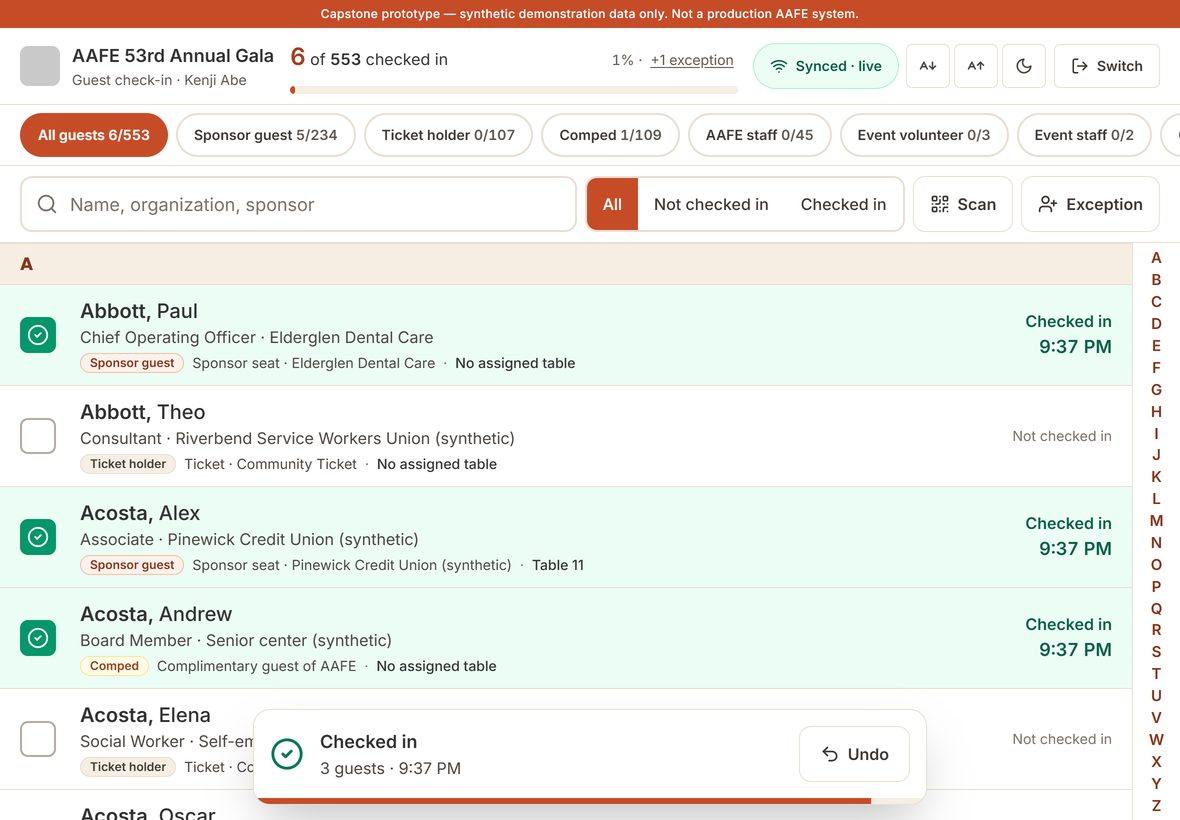
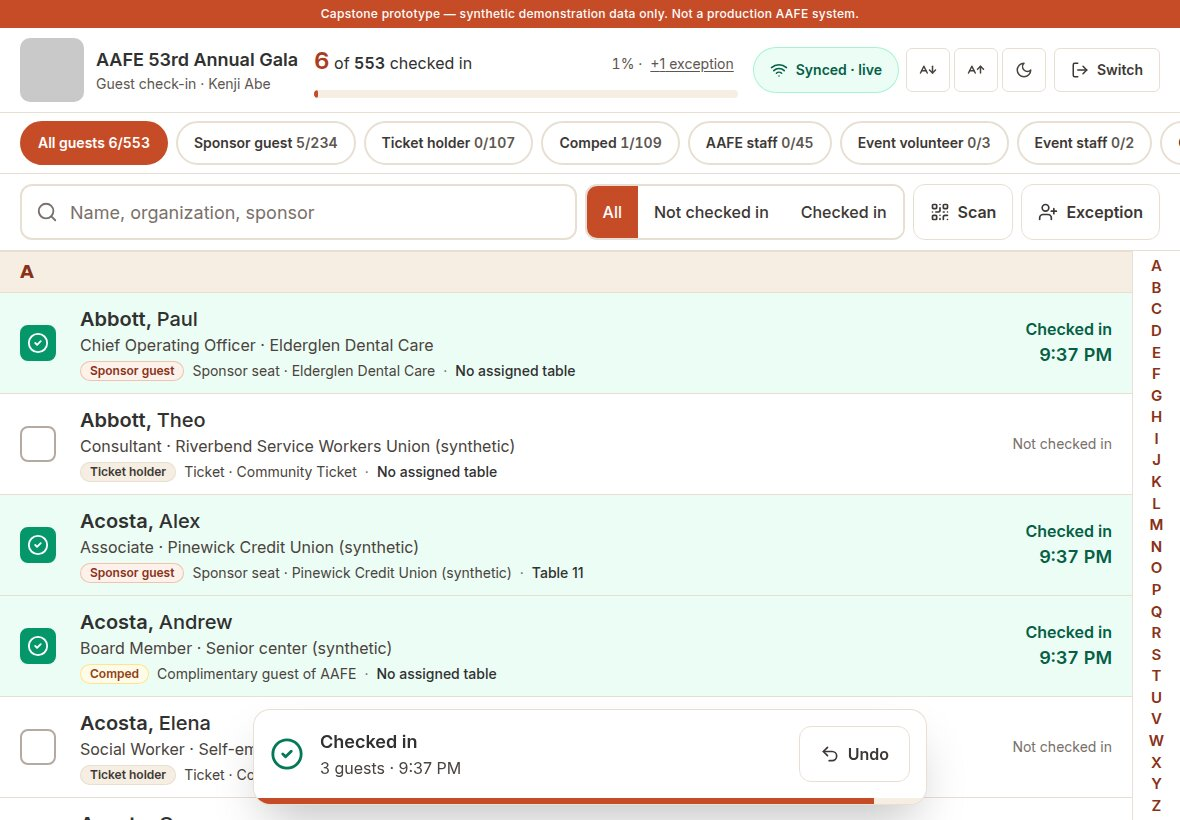
Hub: bring every page up to Oct 9 (PRs #81, #82, the #75-#77 review, PRDs)
- Live build: the six iPad screenshots retaken with the larger mark and the
  portrait filter row from #81 and #82; AAFE's mark stays a grey placeholder
- Tasks: an Oct 8 (night) section; #76, #77, the deadline decision, the audit
  and the code map task updated with what's built and what's left
- Build plan, Overview, Architecture, Decisions, Documents, Risks, Glossary:
  status as of Oct 9; links to the Code map
- What's new: one line per change

Claude-Session: https://claude.ai/code/session_01AG8RBuHLPDQwYThMwQLUZv

diff --git a/hub/index.html b/hub/index.html
@@ -665,7 +665,7 @@ body.presenting .pager,body.presenting .foot,body.presenting .check-note,body.pr
     </div>
     <footer class="foot">
       <span>Prepared by team ERIMX BOKHUS, Pursuit AI Native Fellowship. Not an official AAFE website.</span>
-      <span>Updated October 8, 2026 · Invented example data only</span>
+      <span>Updated October 9, 2026 · Invented example data only</span>
     </footer>
   </main>
 </div>

diff --git a/hub/docs/build-plan.md b/hub/docs/build-plan.md
@@ -54,7 +54,7 @@ Read it left to right: setup and data the first week, then the import, the staff
 ## Where each component stands
 <!-- new 2026-10-05 22:58 Aisling -->
 
-As of October 8. Natalie's backend and guest portal are in `main` (PRs #25 and #26), so the backend pair builds on her work instead of starting over. PRs #42–#50 (Oct 6–7) added the email follow-ups, offline check-in, the sponsor pipeline, sponsor-facing arrivals (switched off), the translation review sheet, and a full-size test gala. Natalie's iPad check-in app joined `main` on Oct 8 (PR #56). The staff app saves every change through the server, which checks the role (PR #72, Oct 8). <!-- modified 2026-10-08 16:40 Aisling -->
+As of October 9. Natalie's backend and guest portal are in `main` (PRs #25 and #26), so the backend pair builds on her work instead of starting over. PRs #42–#50 (Oct 6–7) added the email follow-ups, offline check-in, the sponsor pipeline, sponsor-facing arrivals (switched off), the translation review sheet, and a full-size test gala. Natalie's iPad check-in app joined `main` on Oct 8 (PR #56). The staff app saves every change through the server, which checks the role (PR #72, Oct 8). The backend audit's fixes (PR #78) and two iPad layout PRs (#81, #82) followed that night. The [Code map](#codemap) shows how all of it connects. <!-- modified 2026-10-09 00:05 Aisling -->
 
 | # | Component | Status | Done | Next <!-- new 2026-10-05 22:58 Aisling --> |
 | --- | --- | --- | --- | --- |
@@ -63,11 +63,11 @@ As of October 8. Natalie's backend and guest portal are in `main` (PRs #25 and #
 | C2 | Sign-in and roles | Built; live test next | Emailed one-time sign-in link, role from the staff list (Cornell, PR #27); 20 sign-in tests. Roles enforced on the server (issue #9; Cornell, PR #72, Oct 8): every staff action is one server function that checks the role and logs the change, managers read through the access rules, and a check-in volunteer's browser holds only the door list (no emails, phones, dietary needs, payments, notes or QR codes); checked live on Aisling's test project Oct 8 | Live sign-in test with Cornell on Saturday, Oct 10 <!-- modified 2026-10-08 16:40 Aisling --> |
 | C3 | Commitments and seats | Connected | Pledges, payments, comps, seats, and seat statuses in Natalie's backend; the staff app records them through the server (PR #72); payment, pledge and comp forms save once on a double-click | Live run with the sign-in test <!-- modified 2026-10-08 16:40 Aisling --> |
 | C4 | Import and matching | Ahead of schedule | Import engine (116 tests) and database side, including a real-format CSV end to end; tier mapping; gala page filter; review queue; daylight-saving days, a 2,000-row file, and Internal Name only (PR #46); the Give Lively sync's per-donation logic tested (PR #46); a 553-guest gala end to end in about 19 seconds (PR #50) | Upload screen and tier-mapping picker in the staff app (frontend pair); decide on names written in Chinese or Korean script <!-- modified 2026-10-07 23:27 Aisling --> |
-| C5 | Sponsor guest form | Source in `main` | Natalie's portal: slots per package, hashed private links, English, 中文, 한국어, Español (Korean from Antonin, PR #51); Antonin's prototype reviewed as a design reference (Oct 6) | Port as small PRs, screenshots first, Natalie approves: tier-based layout, "N guests still need names · add by May 11", gala-night arrivals; "From your purchase: please confirm" labels; connect to the backend. Antonin's PRs #75–#77 wait for screenshots and Natalie's approval, #75 also for the deadline decision <!-- modified 2026-10-08 16:40 Aisling --> |
+| C5 | Sponsor guest form | Source in `main` | Natalie's portal: slots per package, hashed private links, English, 中文, 한국어, Español (Korean from Antonin, PR #51); Antonin's prototype reviewed as a design reference (Oct 6) | Port as small PRs, screenshots first, Natalie approves: tier-based layout, "N guests still need names · add by May 11", gala-night arrivals; "From your purchase: please confirm" labels; connect to the backend. Antonin's PRs #75–#77 were reviewed and tested Oct 8; they wait on Natalie, then notes go to Antonin; #75 also waits on the deadline decision <!-- modified 2026-10-09 00:05 Aisling --> |
 | C6 | Staff dashboard | Connected; pipeline built in the backend | Natalie's staff app, connected (PR #72): every page reads through the server's access rules, paged past Supabase's 1,000-row limit, with demo data when no keys are set; changing the gala date or deadline says what will move before saving; sponsor pipeline in the backend: AAFE's stages, the ask against the commitment, the last two galas' giving, and a board against the goal (PR #48) | Gaps by owner; pipeline board and prospect form <!-- modified 2026-10-08 16:40 Aisling --> |
 | C7 | Follow-up emails | Built in the backend | Draft queue, staff approval, sending through Resend; payment confirmations, guest-list reminders, and an approval queue with each email's sponsor, seats, and payment (PR #44); every email change logged with old and new values (PR #42) | Approval screen in the staff app (frontend pair) <!-- modified 2026-10-07 13:45 Aisling --> |
 | C8 | Exports | Database side done, live | Badge file with table numbers, printed check-in list, and Salesforce attendee file from the database, role-checked and logged, 18 tests (PR #34); loaded into Aisling's test Supabase project Oct 6 (31 advisor warnings, all by design) | Staff app buttons call them; match AAFE's badge and check-in templates when they arrive <!-- modified 2026-10-07 20:23 Aisling --> |
-| C9 | Check-in app | Connected; live test next | Natalie's iPad check-in app: tonight's gala only, 553 invented guests A to Z in AAFE's seven categories, search, check in one or several with undo, QR scan or typed code with a repeat-scan warning, approved exceptions, offline queue, dark mode (PR #56); Undo or Close while a check-in is sending no longer loses it (PR #60); invented names in place of 12 real organizations (PR #62). Backend: QR codes hashed per seat and expiring (issue #10); printed check-in list export (PR #34); offline check-in module (PR #46); sponsor-facing arrivals, switched off until AAFE approves (PR #49). Connected to the backend (PR #71): staff sign-in, the door list from the server (none bundled), QR codes matched on their hash, `CheckInDesk` sync, undo by the same person or a gala admin, notices for check-ins not counted, cleared on sign-out; tried against a stand-in backend (18 checks) | First live run on the real Supabase project with the sign-in test. Natalie: app manifest, opening offline, camera scanning on a real iPad <!-- modified 2026-10-08 05:40 Aisling --> |
+| C9 | Check-in app | Connected; live test next | Natalie's iPad check-in app: tonight's gala only, 553 invented guests A to Z in AAFE's seven categories, search, check in one or several with undo, QR scan or typed code with a repeat-scan warning, approved exceptions, offline queue, dark mode (PR #56); Undo or Close while a check-in is sending no longer loses it (PR #60); invented names in place of 12 real organizations (PR #62); a larger AAFE mark, smaller while searching, and a portrait layout that Tab follows (PRs #81, #82). Backend: QR codes hashed per seat and expiring (issue #10); printed check-in list export (PR #34); offline check-in module (PR #46); sponsor-facing arrivals, switched off until AAFE approves (PR #49). Connected to the backend (PR #71): staff sign-in, the door list from the server (none bundled), QR codes matched on their hash, `CheckInDesk` sync, undo by the same person or a gala admin, notices for check-ins not counted, cleared on sign-out; tried against a stand-in backend (18 checks) | First live run on the real Supabase project with the sign-in test. Natalie: app manifest, opening offline, camera scanning on a real iPad <!-- modified 2026-10-09 00:05 Aisling --> |
 | C10 | Branding and languages | In progress | Design system (PR #14); AAFE orange and white; all four languages in the portal, Korean added by Antonin (PR #51); translation review sheet for AAFE with every column filled (English, 中文, 한국어, Español) and no silent fallback to English (PR #50) | AAFE reviews the translations on the sheet; Demo Day photo approval <!-- modified 2026-10-07 19:15 Aisling --> |
 | C11 | Testing and security | In progress | About 1,250 automated checks (1,041 backend, 116 import engine, 90 app): every staff action logged, every table and role, sponsor link limits, emails, the Give Lively sync, offline check-in, the pipeline, sponsor arrivals, translations (PRs #42–#50); check-in sync races (PR #60); every new QR code carries the full 128 random bits (PR #61); the three demo data sets load cleanly and keep the staff list (PR #66); 20 sign-in tests (PR #27); secret keys kept out of the browser and the repo (PR #36); server roles, gala date and deadline moves, and forms that save once (PR #72); nine bugs from the Oct 8 audit, each with a test that fails on the old code (PR #78) | The testing list below <!-- modified 2026-10-08 17:10 Aisling --> |
 | C12 | Demo deploy and handoff | Not started | First prototype review with AAFE set for Oct 15; demo host decided: Vercel's free plan (Oct 6) | Set up the three Vercel projects (staff app, guest portal, iPad app). The iPad app's demo sync server runs on one computer only, so a hosted iPad app won't sync until it's connected to Supabase. Rotate every key at handoff <!-- modified 2026-10-08 04:15 Aisling --> |

diff --git a/hub/docs/tasks.md b/hub/docs/tasks.md
@@ -125,12 +125,24 @@ The team's task tracker is [Trello](https://trello.com/b/g9ycbWCv/erimx-bokhus),
 - [x] Smaller audit findings, fixed with tests in the same PR (#78): a Give Lively refund recomputes the payment status from that payment alone; clearing the gala's deadline leaves links on the old one; the portal's ticket-holder check uses the tier id; two changes aren't logged; check-ins don't check the gala — Aisling <!-- modified 2026-10-08 17:10 Aisling -->
 - [x] Supabase advisor warnings from 43 to 1: the functions the apps call moved to a private schema behind same-name wrappers, Supabase's recommended fix; checked live on Aisling's test project (PR #78) — Aisling <!-- new 2026-10-08 17:10 Aisling -->
 - [x] What's new: six of Oct 8's timestamps were written in UTC; corrected to New York time (read status is kept) — Aisling <!-- new 2026-10-08 17:10 Aisling -->
-- [ ] Full audit of the whole system, frontend and backend, once PR #78 merges — Aisling <!-- new 2026-10-08 17:10 Aisling -->
-- [ ] A code map in the hub: every file as a node with what it does and which files it works with; click one to see its purpose, its code and its connections — Aisling <!-- new 2026-10-08 17:10 Aisling -->
-- [ ] Decide when sponsor links stop working: three options on the [PR review plan](https://claude.ai/artifact/M25oqGpKjoyXbZiUc1UFGB) (A at the deadline, today; B edit until the deadline, view until the day after the gala, recommended; C edit until after the gala). PR #75 waits on it — Natalie, then AAFE <!-- new 2026-10-08 16:40 Aisling -->
-- [ ] Split PR #76 (portal accessibility) into five small PRs, each with screenshots for Natalie: the "Open your guest list" button, error announcements, contrast, the shared dialog, small fixes — Aisling (Natalie approves) <!-- new 2026-10-08 16:40 Aisling -->
-- [ ] PR #77 ("N guests still need names"): small fixes and before/after screenshots, then Natalie's approval — Antonin <!-- new 2026-10-08 16:40 Aisling -->
+- [ ] Full audit of the whole system, frontend and backend, now that PR #78 is merged (Oct 8) — Aisling <!-- modified 2026-10-09 00:05 Aisling -->
+- [ ] A code map in the hub: every file as a node with what it does and which files it works with; click one to see its purpose, its code and its connections. Built: the [Code map](#codemap) page, with every file, function and table, search, and each one's file, line and connections. Still to add: a one-line purpose for each file and a look at its code — Aisling <!-- modified 2026-10-09 00:05 Aisling -->
+- [ ] Decide when sponsor links stop working: three options on the [PR review plan](https://claude.ai/artifact/M25oqGpKjoyXbZiUc1UFGB) (A at the deadline, today; B edit until the deadline, view until the day after the gala, recommended; C edit until after the gala). PR #75 waits on it: with option A, live sponsors never see its "list is closed" card, because their link stops at the same moment — Natalie, then AAFE <!-- modified 2026-10-09 00:05 Aisling -->
+- [ ] PR #76 (portal accessibility): split into five small PRs with screenshots, or merge it whole once its two double-click files are rebuilt, as the Oct 8 review suggests. It also changes the shared dialog and form fields the staff and iPad apps use, so Natalie checks those apps too; fields without an id get duplicate ids — Aisling (Natalie decides) <!-- modified 2026-10-09 00:05 Aisling -->
+- [ ] PR #77 ("N guests still need names"): hide the line after the deadline once #75 is in, a little more space under the progress bar, then Natalie's approval — Antonin <!-- modified 2026-10-09 00:05 Aisling -->
 - [ ] Decide whether gala admins keep direct table edits on the gala, tiers, tables and staff list now that the staff app saves through server functions (one shared rule covers all four) — Aisling <!-- new 2026-10-08 16:40 Aisling -->
+
+## Added October 8 (night)
+<!-- new 2026-10-09 00:05 Aisling -->
+
+- [x] iPad check-in: a larger AAFE mark and a tidier search row in portrait, screenshots retaken (PR #81) — Natalie <!-- new 2026-10-09 00:05 Aisling -->
+- [x] iPad follow-ups: the mark goes back to its small size while searching, so the list keeps its room above the keyboard; Tab follows the screen in portrait; checked at four iPad sizes (PR #82) — Aisling <!-- new 2026-10-09 00:05 Aisling -->
+- [x] Review Antonin's portal PRs #75–#77, each tested merged with `main` (90 tests, build, translation and real-data checks pass), and send the findings to Natalie first, since the portal is hers. Suggested order: #77, then #75 with a hide check, then #76 once its files are rebuilt — Aisling <!-- new 2026-10-09 00:05 Aisling -->
+- [ ] Natalie's take on the #75–#77 review, then the notes go on the PRs for Antonin. His questions for Natalie: Poppins for the portal, a darker input border, full name or first and last (maybe for AAFE on Oct 15), and the PRD still saying Korean is dropped — Natalie, then Aisling <!-- new 2026-10-09 00:05 Aisling -->
+- [x] Natalie's enterprise PRD approved by Pursuit and submitted in Pathfinder under Build — Natalie, Aisling <!-- new 2026-10-09 00:05 Aisling -->
+- [ ] Submit Natalie's enterprise PRD in Pathfinder under Build, for the team's PRD milestone — Cornell, Antonin <!-- new 2026-10-09 00:05 Aisling -->
+- [ ] Confirm the in-person sign-in test: Saturday, Oct 10, 12 PM, at the Pursuit building — Cornell <!-- new 2026-10-09 00:05 Aisling -->
+- [x] Code map page in the hub, built from the code with graphify; iPad screenshots on Live build retaken with #81 and #82 — Aisling <!-- new 2026-10-09 00:05 Aisling -->
 
 ## Week of October 12
 

diff --git a/hub/docs/documents.md b/hub/docs/documents.md
@@ -9,7 +9,7 @@ Everything the team has produced or collected, in one place. Living documents ar
 | Document | What it is | Status |
 | --- | --- | --- |
 | [AAFE Gala Project Hub](https://claude.ai/artifact/QVViUNx6SWRBZYKCfrAmp6) | This hub: plan, tasks, decisions, What's new, History, and the build so far | Live tracker, with Trello for day-to-day tasks <!-- updated 2026-10-06 06:12 Aisling --> |
-| [PR Review Plan, Oct 8](https://claude.ai/artifact/M25oqGpKjoyXbZiUc1UFGB) | Review of PRs #72–#77: what each needed, the fixes with screenshots, the three options for when sponsor links stop, and the merge order | Shared with the team in Slack, Oct 8; #72 and #73 merged <!-- new 2026-10-08 16:40 Aisling --> |
+| [PR Review Plan, Oct 8](https://claude.ai/artifact/M25oqGpKjoyXbZiUc1UFGB) | Review of PRs #72–#77: what each needed, the fixes with screenshots, the three options for when sponsor links stop, and the merge order | Shared with the team in Slack, Oct 8; #72 and #73 merged; #75–#77 reviewed and tested Oct 8, findings with Natalie <!-- modified 2026-10-09 00:05 Aisling --> |
 | [Findings, Build Plan, and Tasks](https://claude.ai/code/artifact/25db30ba-7c5a-42dc-8e25-4c2b5dc47d2c) | Overview of findings, the component plan with estimates, the task tracker, and the decision log | Superseded by this hub (Oct 5) <!-- modified 2026-10-06 06:12 Aisling --> |
 | [Discovery Guide v2](https://claude.ai/code/artifact/eedd8e14-cc7b-403e-9f92-4a5a6f96ea78) | Questions in decision order for the October 1 call | Used |
 | [Guest Data and AI Handling](https://claude.ai/code/artifact/1d0571f4-d854-4e4a-90df-b60a62de28ce) | What the tool stores, what it never stores, and how AI is used | Draft for AAFE |
@@ -67,7 +67,7 @@ The starter files for the code repository: `CLAUDE.md` (project rules for Claude
 | `docs/screenshots/ipad-checkin/` | 13 screenshots of the iPad check-in app with invented names (PRs #56, #62) <!-- new 2026-10-08 04:15 Aisling --> |
 | `import-engine/` | The Give Lively import rules as a tested TypeScript module (PRs #23, #24); its README explains how it feeds the database <!-- modified 2026-10-05 22:58 Aisling --> |
 | `design/sponsor-portal-prototype/` on the `antonin` branch | Antonin's Figma Make design prototype of the sponsor portal: the reference for tier layout and gala-night arrivals (Korean is in the portal, PR #51); not merged <!-- modified 2026-10-08 04:15 Aisling --> |
-| Natalie's two PRDs | The enterprise PRD and the client-facing PRD (Oct 7), kept by Natalie outside the repo; their decisions are recorded on [Decisions](#decisions) <!-- new 2026-10-08 04:15 Aisling --> |
+| Natalie's two PRDs | The enterprise PRD and the client-facing PRD (Oct 7), kept by Natalie outside the repo; their decisions are recorded on [Decisions](#decisions). The enterprise PRD was approved by Pursuit on Oct 8 and is the team's PRD in Pathfinder <!-- modified 2026-10-09 00:05 Aisling --> |
 | `seed/natalie-prototype/` | Natalie's seed data as CSVs, the demo's base state; its README lists what the app's loader must fix <!-- updated 2026-10-03 12:36 Aisling --> |
 | `docs/research/prototype-review-2026-10-03.md` | What we adopted from Natalie's prototype and seed data, and where it meets the hard rules <!-- updated 2026-10-03 12:36 Aisling --> |
 | `.github/workflows/` | Six checks, all run on every pull request and all required before anything merges to `main`: secret scan (`gitleaks.yml`), real-data guard (`real-data.yml`), backend tests (`backend.yml`), import engine tests (`import-engine.yml`), app tests, build, and demo files up to date (`frontend.yml`), server function type-check (`edge-functions.yml`) <!-- modified 2026-10-06 21:33 Aisling --> |

diff --git a/hub/docs/changes.md b/hub/docs/changes.md
@@ -5,6 +5,15 @@ Every change to this hub, newest first. Open it while signed in to claude.ai and
 Each change has a kind, shown the same way on every page next to the exact line that changed: **✦ New** (didn't exist before), **+ Updated** (rows, tasks, or terms added), **✎ Modified** (wording, numbers, or a rule changed), **− Removed** (taken out), and **! Important** (everyone should act on it). Hover an icon for the date, time (New York), and who made the change; click it to mark it read.
 
 ```changes
+2026-10-09 00:05 | modified | Aisling | tasks | Oct 8 night: PRs #81 and #82 (iPad layout), the review of Antonin's #75–#77 sent to Natalie, the PRD in Pathfinder, and the Saturday sign-in test at 12 PM; the code map task shows what's built and what's left
+2026-10-09 00:05 | modified | Natalie | screens.ipad-check-in-app | iPad screenshots retaken: the larger logo mark (still a grey placeholder) and the portrait filter on its own row (PRs #81, #82)
+2026-10-09 00:05 | modified | Aisling | build-plan.where-each-component-stands | Check-in app: the larger mark and portrait layout (PRs #81, #82); sponsor form: Antonin's #75–#77 reviewed, waiting on Natalie
+2026-10-09 00:05 | modified | Aisling | decisions.pending | When sponsor links stop: with option A, live sponsors never see #75's "list is closed" card, because their link stops at the same moment
+2026-10-09 00:05 | modified | Aisling | documents | The PR review plan's status, and Natalie's enterprise PRD approved by Pursuit and in Pathfinder
+2026-10-09 00:05 | modified | Aisling | overview | Status: the iPad app connected, the backend audit fixed, Antonin's portal PRs in review
+2026-10-09 00:05 | modified | Aisling | risks | The sign-in test is Saturday at 12 PM at the Pursuit building, once Cornell confirms
+2026-10-09 00:05 | updated | Aisling | glossary | Two new terms: Code map and graphify
+2026-10-08 23:55 | new | Aisling | codemap | New page: Code map, an interactive map of every file, function and table in the prototype and how they connect; search, filter by area, click for details
 2026-10-08 17:10 | modified | Aisling | tasks | The four audit bugs and the five smaller findings are fixed with tests in one PR (#78); next: a full audit of the whole system and a code map in the hub
 2026-10-08 17:10 | modified | Aisling | decisions | Supabase advisor warnings down from 43 to 1: the functions the apps call moved to a private schema behind same-name wrappers (PR #78)
 2026-10-08 17:10 | modified | Aisling | build-plan.where-each-component-stands | About 1,250 automated checks; nine audit bugs fixed with tests (PR #78)

diff --git a/hub/docs/decisions.md b/hub/docs/decisions.md
@@ -74,7 +74,7 @@ Every decision with its reason and what would reopen it, newest first. Nothing h
 
 | Decision | Who decides | When |
 | --- | --- | --- |
-| When sponsor links stop working. Three options on the [PR review plan](https://claude.ai/artifact/M25oqGpKjoyXbZiUc1UFGB): A, at the deadline (today, hard rule 6); B, sponsors edit until the deadline and can still view their list until the day after the gala, staff handle late changes (recommended; amends hard rule 6); C, edit until after the gala. Natalie's PRD proposes a grace period; PR #75 (read-only after the deadline) waits on this | Natalie, then AAFE | The Oct 15 review <!-- modified 2026-10-08 16:40 Aisling --> |
+| When sponsor links stop working. Three options on the [PR review plan](https://claude.ai/artifact/M25oqGpKjoyXbZiUc1UFGB): A, at the deadline (today, hard rule 6); B, sponsors edit until the deadline and can still view their list until the day after the gala, staff handle late changes (recommended; amends hard rule 6); C, edit until after the gala. Natalie's PRD proposes a grace period; PR #75 (read-only after the deadline) waits on this. The Oct 8 review found that with A, live sponsors never see #75's "list is closed" card, because their link stops at the same moment; the server already refuses saves after the deadline | Natalie, then AAFE | The Oct 15 review <!-- modified 2026-10-09 00:05 Aisling --> |
 | Whether gala admins keep direct table edits on the gala, tiers, tables and staff list now that the staff app saves through server functions (one shared rule covers all four) | Aisling | Before handoff <!-- new 2026-10-08 16:40 Aisling --> |
 | Which Supabase project the demo and the handoff use, and who owns it (today the backend runs in Aisling's test project, in her own account) | Team (Natalie, Aisling) | Before the Vercel demo and Cornell's live sign-in test <!-- new 2026-10-07 20:23 Aisling --> |
 | Whether a name written in Chinese or Korean script without a space counts as a full name in the import (today it's left for the sponsor) | Team | Before AAFE's real lists <!-- modified 2026-10-07 23:27 Aisling --> |

diff --git a/hub/docs/screens.md b/hub/docs/screens.md
@@ -50,7 +50,7 @@ Staff can search a name or sponsor and mark the guest arrived. At the door, volu
 ## iPad check-in app
 <!-- new 2026-10-08 04:15 Aisling -->
 
-Natalie's app for volunteers at the door (`prototype/checkin-app/`, PR #56), on the Full gala's 553 invented guests, captured October 8. Volunteers sign in with a check-in-only role; the app shows tonight's gala only, keeps working offline, and syncs later. AAFE's logo mark is a grey placeholder (hard rule 8).
+Natalie's app for volunteers at the door (`prototype/checkin-app/`, PR #56), on the Full gala's 553 invented guests, retaken October 9 with the larger logo mark (PR #81) and, in portrait, the All / Not checked in / Checked in filter on its own row (PRs #81, #82). Volunteers sign in with a check-in-only role; the app shows tonight's gala only, keeps working offline, and syncs later. AAFE's logo mark is a grey placeholder (hard rule 8). <!-- modified 2026-10-09 00:05 Aisling -->
 
 The guest list, A to Z by last name, with each guest's category, seat, and table.
 
@@ -72,6 +72,6 @@ Exceptions, such as a walk-in, are recorded with a note and listed for the check
 
 ![The exceptions list with an invented walk-in](img/ipad-exceptions.jpg)
 
-The same app held upright.
+The same app held upright. The filter moves to its own row, and Tab follows the screen from top to bottom (PR #82). <!-- modified 2026-10-09 00:05 Aisling -->
 
-![iPad check-in app in portrait, 12 of 553 checked in](img/ipad-portrait.jpg)
+![iPad check-in app in portrait, 12 of 553 checked in, with the filter on its own row under search, Scan and Exception](img/ipad-portrait.jpg)

diff --git a/hub/docs/overview.md b/hub/docs/overview.md
@@ -46,7 +46,7 @@ This is the demo in miniature. Pause on step 4: the sponsor fixes their own list
 | Target event | AAFE's 2027 gala |
 | Discovery call | October 1, 2026 |
 | Demo Day | November 10, 2026 |
-| Status | Building. Import engine and its database side done and tested; exports built; Natalie's staff app, sponsor portal, and Supabase backend in `main`; Supabase backend loaded in Aisling's test project; staff sign-in merged (PR #27) and roles checked on the server for every staff action (PR #72); Korean in the portal (PR #51); email follow-ups, offline check-in, sponsor pipeline, and sponsor arrivals (off) built in the backend; Natalie's iPad check-in app in `main` (PR #56, Oct 8); three labeled demo data sets (PR #66); first prototype review with AAFE on Oct 15 <!-- modified 2026-10-08 16:40 Aisling --> |
+| Status | Building. Import engine and its database side done and tested; exports built; Natalie's staff app, sponsor portal, and Supabase backend in `main`; Supabase backend loaded in Aisling's test project; staff sign-in merged (PR #27) and roles checked on the server for every staff action (PR #72); Korean in the portal (PR #51); email follow-ups, offline check-in, sponsor pipeline, and sponsor arrivals (off) built in the backend; Natalie's iPad check-in app in `main` (PR #56, Oct 8) and connected to the backend (PR #71); backend audit fixed with tests (PR #78); three labeled demo data sets (PR #66); Antonin's three portal PRs in review; first prototype review with AAFE on Oct 15 <!-- modified 2026-10-09 00:05 Aisling --> |
 
 ## Team
 <!-- updated 2026-10-05 20:37 Aisling pairs -->

diff --git a/hub/docs/glossary.md b/hub/docs/glossary.md
@@ -54,6 +54,8 @@ Door list | What the iPad app holds: only the fields a door volunteer needs (nam
 Offline queue | Check-ins the iPad saved while the internet was down, sent once it's back; the first arrival wins. <!-- new 2026-10-08 04:15 Aisling -->
 Approval queue | Emails waiting for a staff member to approve them; nothing sends without that approval. <!-- new 2026-10-08 04:15 Aisling -->
 Pre-fill | Clearly readable names from a Give Lively guest list, placed in the sponsor's seats for the sponsor to confirm. <!-- new 2026-10-08 04:15 Aisling -->
+Code map | The hub page that draws every file, function and database table in the prototype and how they connect, built from the code by graphify. <!-- new 2026-10-09 00:05 Aisling -->
+graphify | An open-source tool that reads code and maps what uses what, with no AI and nothing sent anywhere; it builds the Code map. <!-- new 2026-10-09 00:05 Aisling -->
 Fingerprint | The stored, scrambled copy (a SHA-256 hash) of a sponsor link or QR code; the database never keeps the working code itself. <!-- new 2026-10-08 04:15 Aisling -->
 Vercel | The host for the demo's web apps, on its free plan; the database stays on Supabase. <!-- new 2026-10-08 04:15 Aisling -->
 Labeled data sets | The three invented demo data sets, one loaded at a time: Small, Full as sent, and Full fixed. <!-- new 2026-10-08 04:15 Aisling -->

diff --git a/hub/docs/risks.md b/hub/docs/risks.md
@@ -24,7 +24,7 @@ The demo preview's free tier lapses before Demo Day | 2 | 2 | Stay on free plans
 Two sponsor portals drift apart | 2 | 2 | One portal (`prototype/guest-portal`); ideas from Antonin's prototype come in as small PRs that Natalie approves | Natalie, Antonin
 A secret key reaches the browser or the repo | 1 | 3 | Keys that bypass the access rules live only in Supabase's secret store; build and demo-file guards (PR #36); secret scan on every PR; rotate every key at handoff | Aisling
 The demo backend sits in one person's Supabase account | 2 | 2 | Agree on the demo's project and owner; the seed data and `npm run db:load` rebuild it anywhere; rotate keys at handoff | Aisling
-The staff app hasn't yet run against Supabase with real sign-in | 2 | 2 | Live role checks on Aisling's test project pass (Oct 8); in-person sign-in test on Saturday, Oct 10 | Aisling, Cornell
+The staff app hasn't yet run against Supabase with real sign-in | 2 | 2 | Live role checks on Aisling's test project pass (Oct 8); in-person sign-in test on Saturday, Oct 10, 12 PM at the Pursuit building (Cornell to confirm) | Aisling, Cornell
 The Oct 7 scope additions crowd out the full path due Oct 30 | 2 | 3 | Hold to P0: the full path works end to end first; the Demo Day additions (C13) follow | Natalie, Aisling
 ```
 

diff --git a/hub/docs/architecture.md b/hub/docs/architecture.md
@@ -14,7 +14,7 @@ Outputs | Badge file — mail merge with table number; Follow-up drafts — staf
 ## What's built
 <!-- new 2026-10-05 22:58 Aisling -->
 
-As of October 8, in the team repo. The build follows Natalie's Supabase schema. Test counts are kept in [Build plan](#build-plan.where-each-component-stands), C11. <!-- modified 2026-10-08 04:15 Aisling -->
+As of October 9, in the team repo. The build follows Natalie's Supabase schema. Test counts are kept in [Build plan](#build-plan.where-each-component-stands), C11. To see every file, function and table and how they connect, open the [Code map](#codemap). <!-- modified 2026-10-09 00:05 Aisling -->
 
 | Part | Where | What it does <!-- new 2026-10-05 22:58 Aisling --> |
 | --- | --- | --- |
